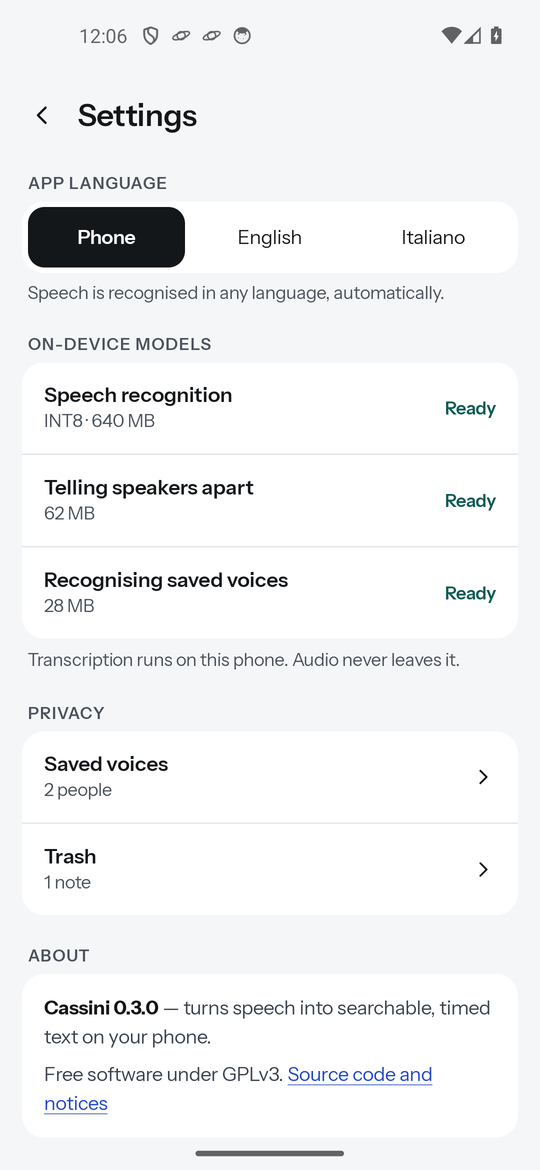
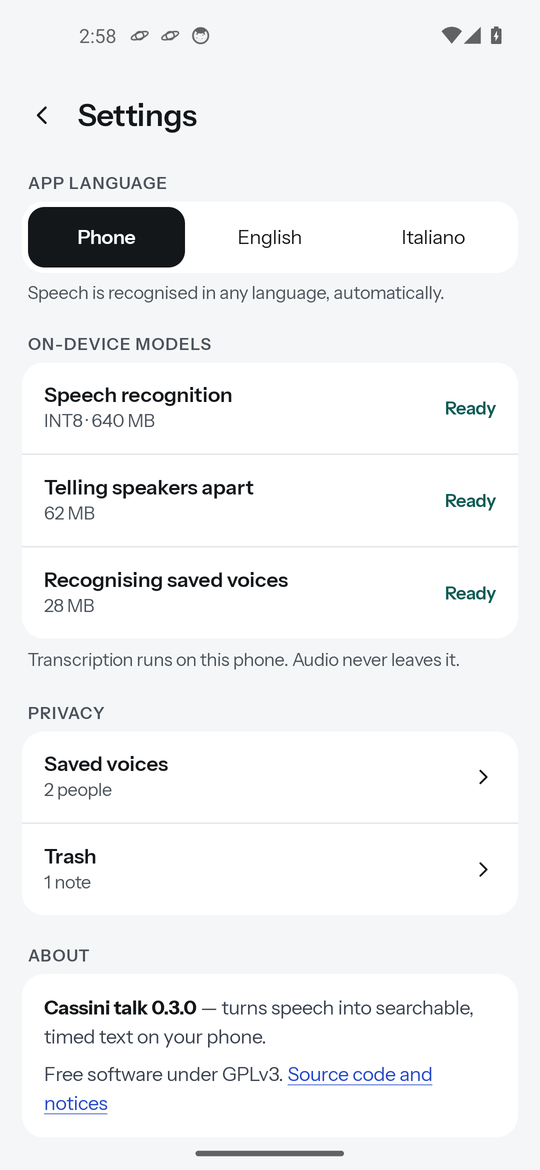
Take the Settings screenshots again for Cassini talk
The About card of the README and store Settings screenshots reads
"Cassini talk 0.3.0". Taken with the acceptance walk (light and dark,
real models) on a CI emulator: API 34, Pixel 5 profile, the 1080 x 2340
of the earlier screenshots (run 41161555538, with the walk fix of #26),
then 540 px wide with Pillow and optipng -o5 -strip all as
docs/development.md says (run 41162612753).

diff --git a/docs/development.md b/docs/development.md
@@ -323,7 +323,7 @@ The screenshots in the README come from this walk. To make them again, use these
 5. Save them as `docs/screenshots/<variant>/01-library.png` to `05-settings.png`, in the order of step 2.
 6. Save the light screenshots also as `metadata/en-US/images/phoneScreenshots/1.png` to `5.png`, in the same order.
 
-The Settings screenshot (`05-settings.png` and the store image `5.png`) shows the version number of the app in the About card. The About card shows the product name and the version, for example "Cassini talk 0.3.0". The committed screenshots still show "Cassini 0.3.0": they are from before the rename to Cassini talk, and the next refresh replaces them. After the owner changes `versionName` for a release, make this screenshot again ([`release.md`](release.md#make-a-release)).
+The Settings screenshot (`05-settings.png` and the store image `5.png`) shows the version number of the app in the About card. The About card shows the product name and the version, for example "Cassini talk 0.3.0". After the owner changes `versionName` for a release, make this screenshot again ([`release.md`](release.md#make-a-release)).
 
 ### note-opening-timing.sh
 
